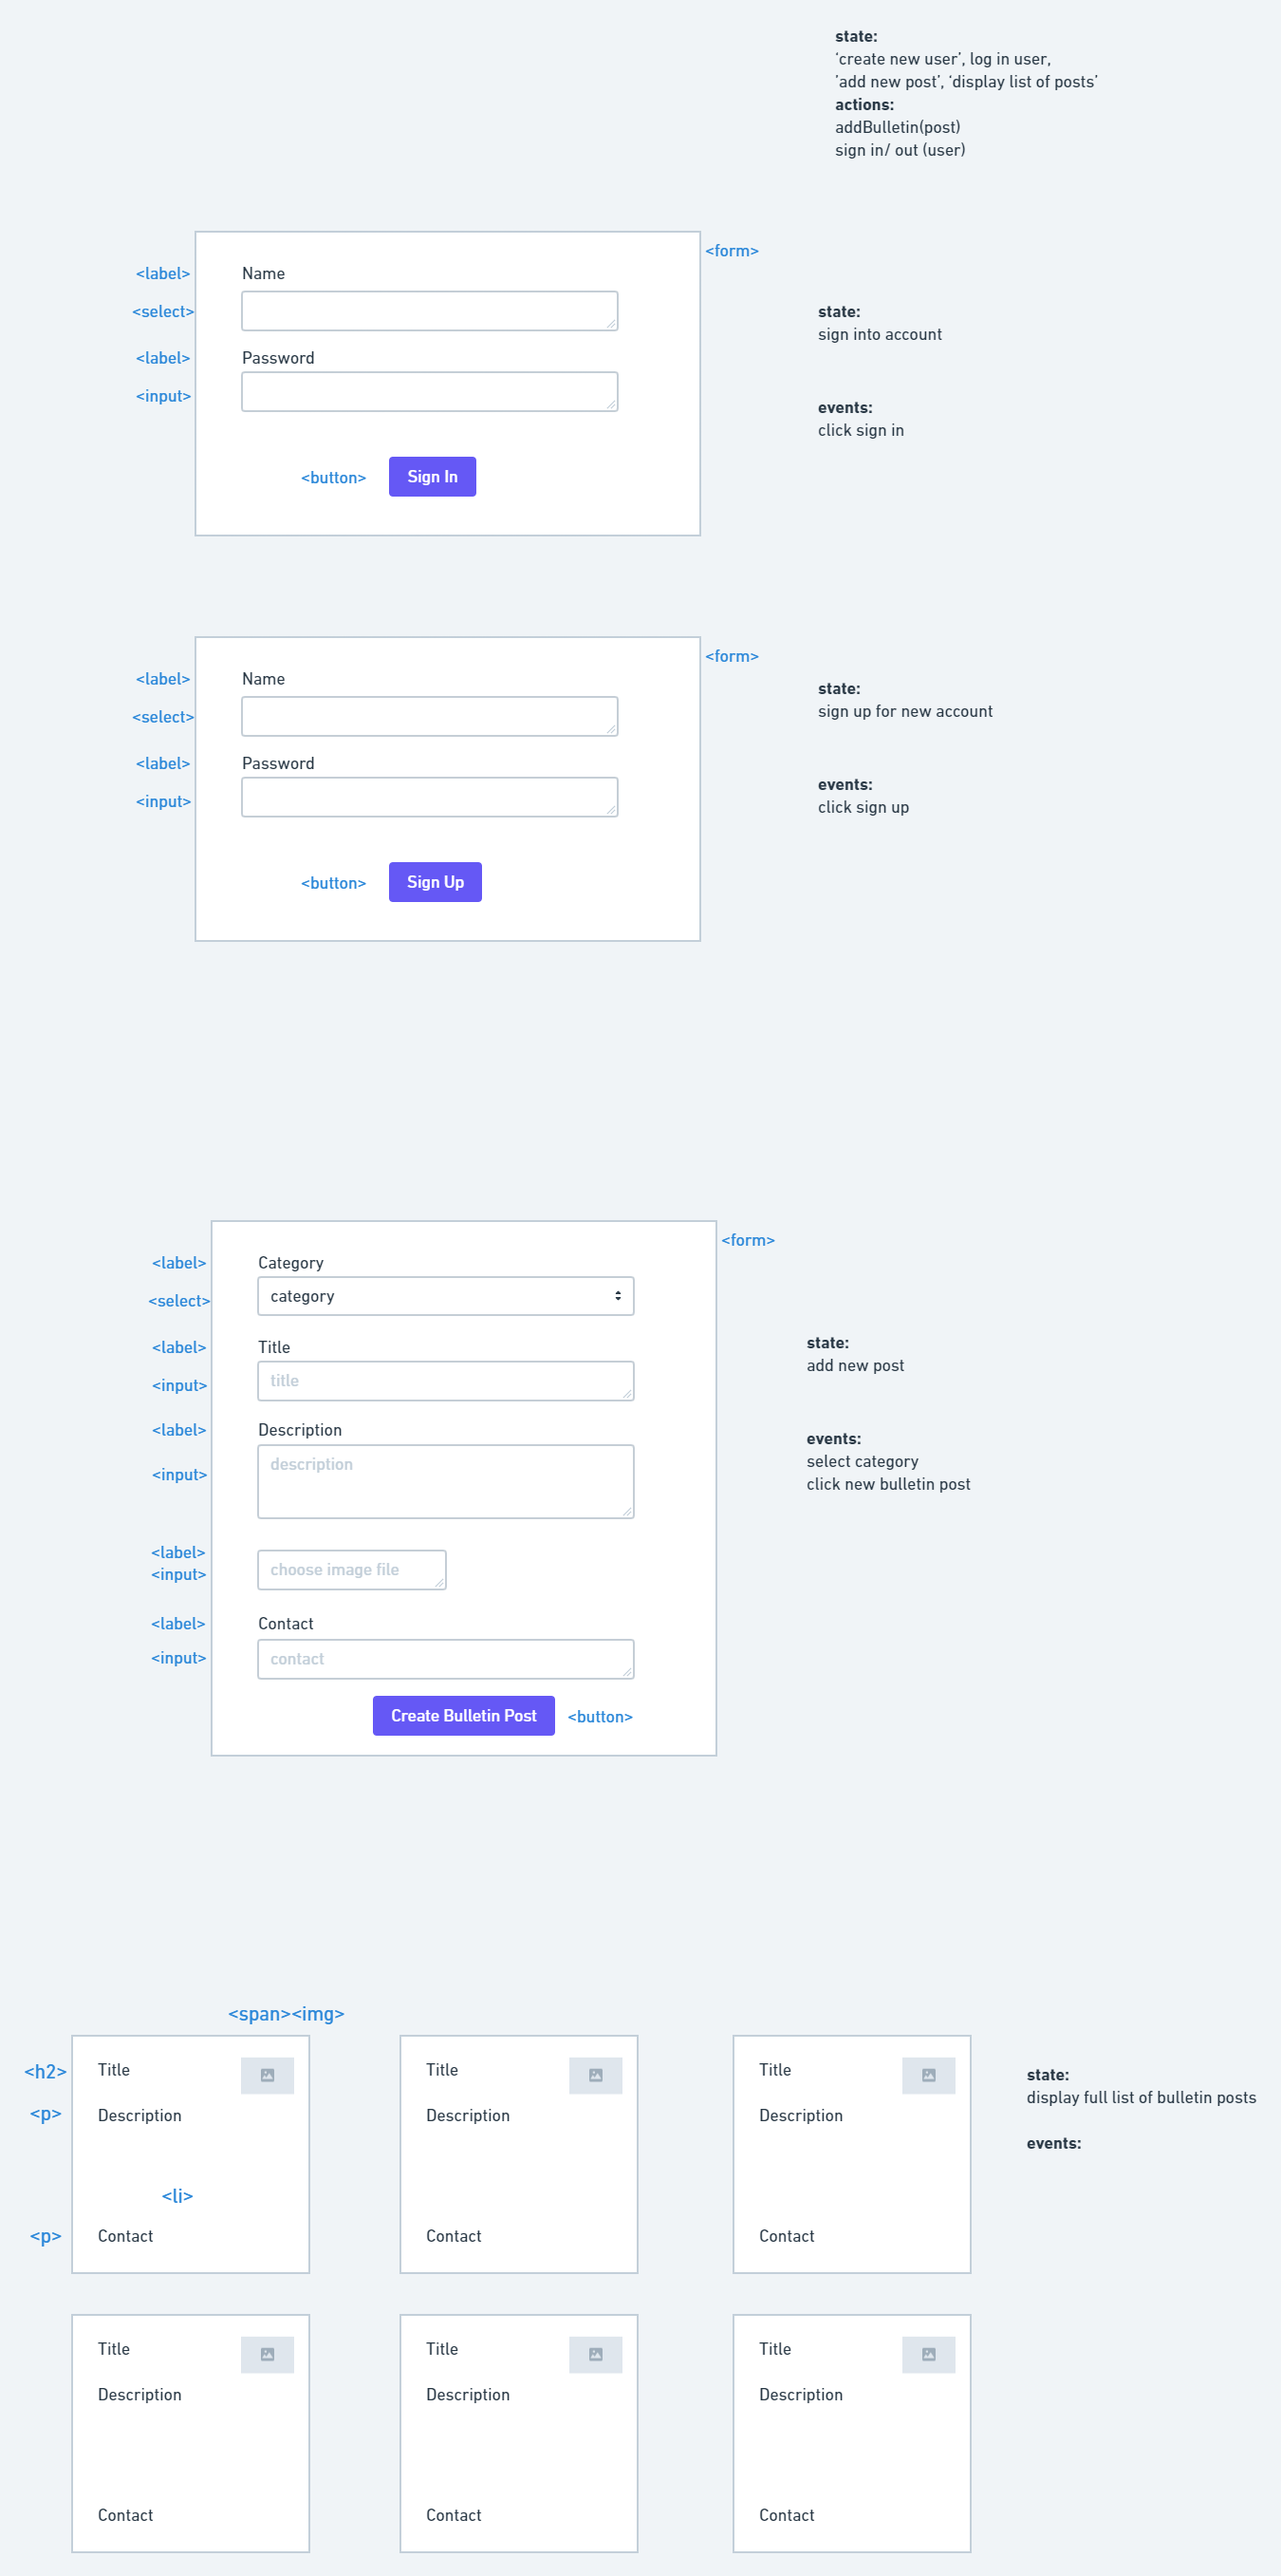
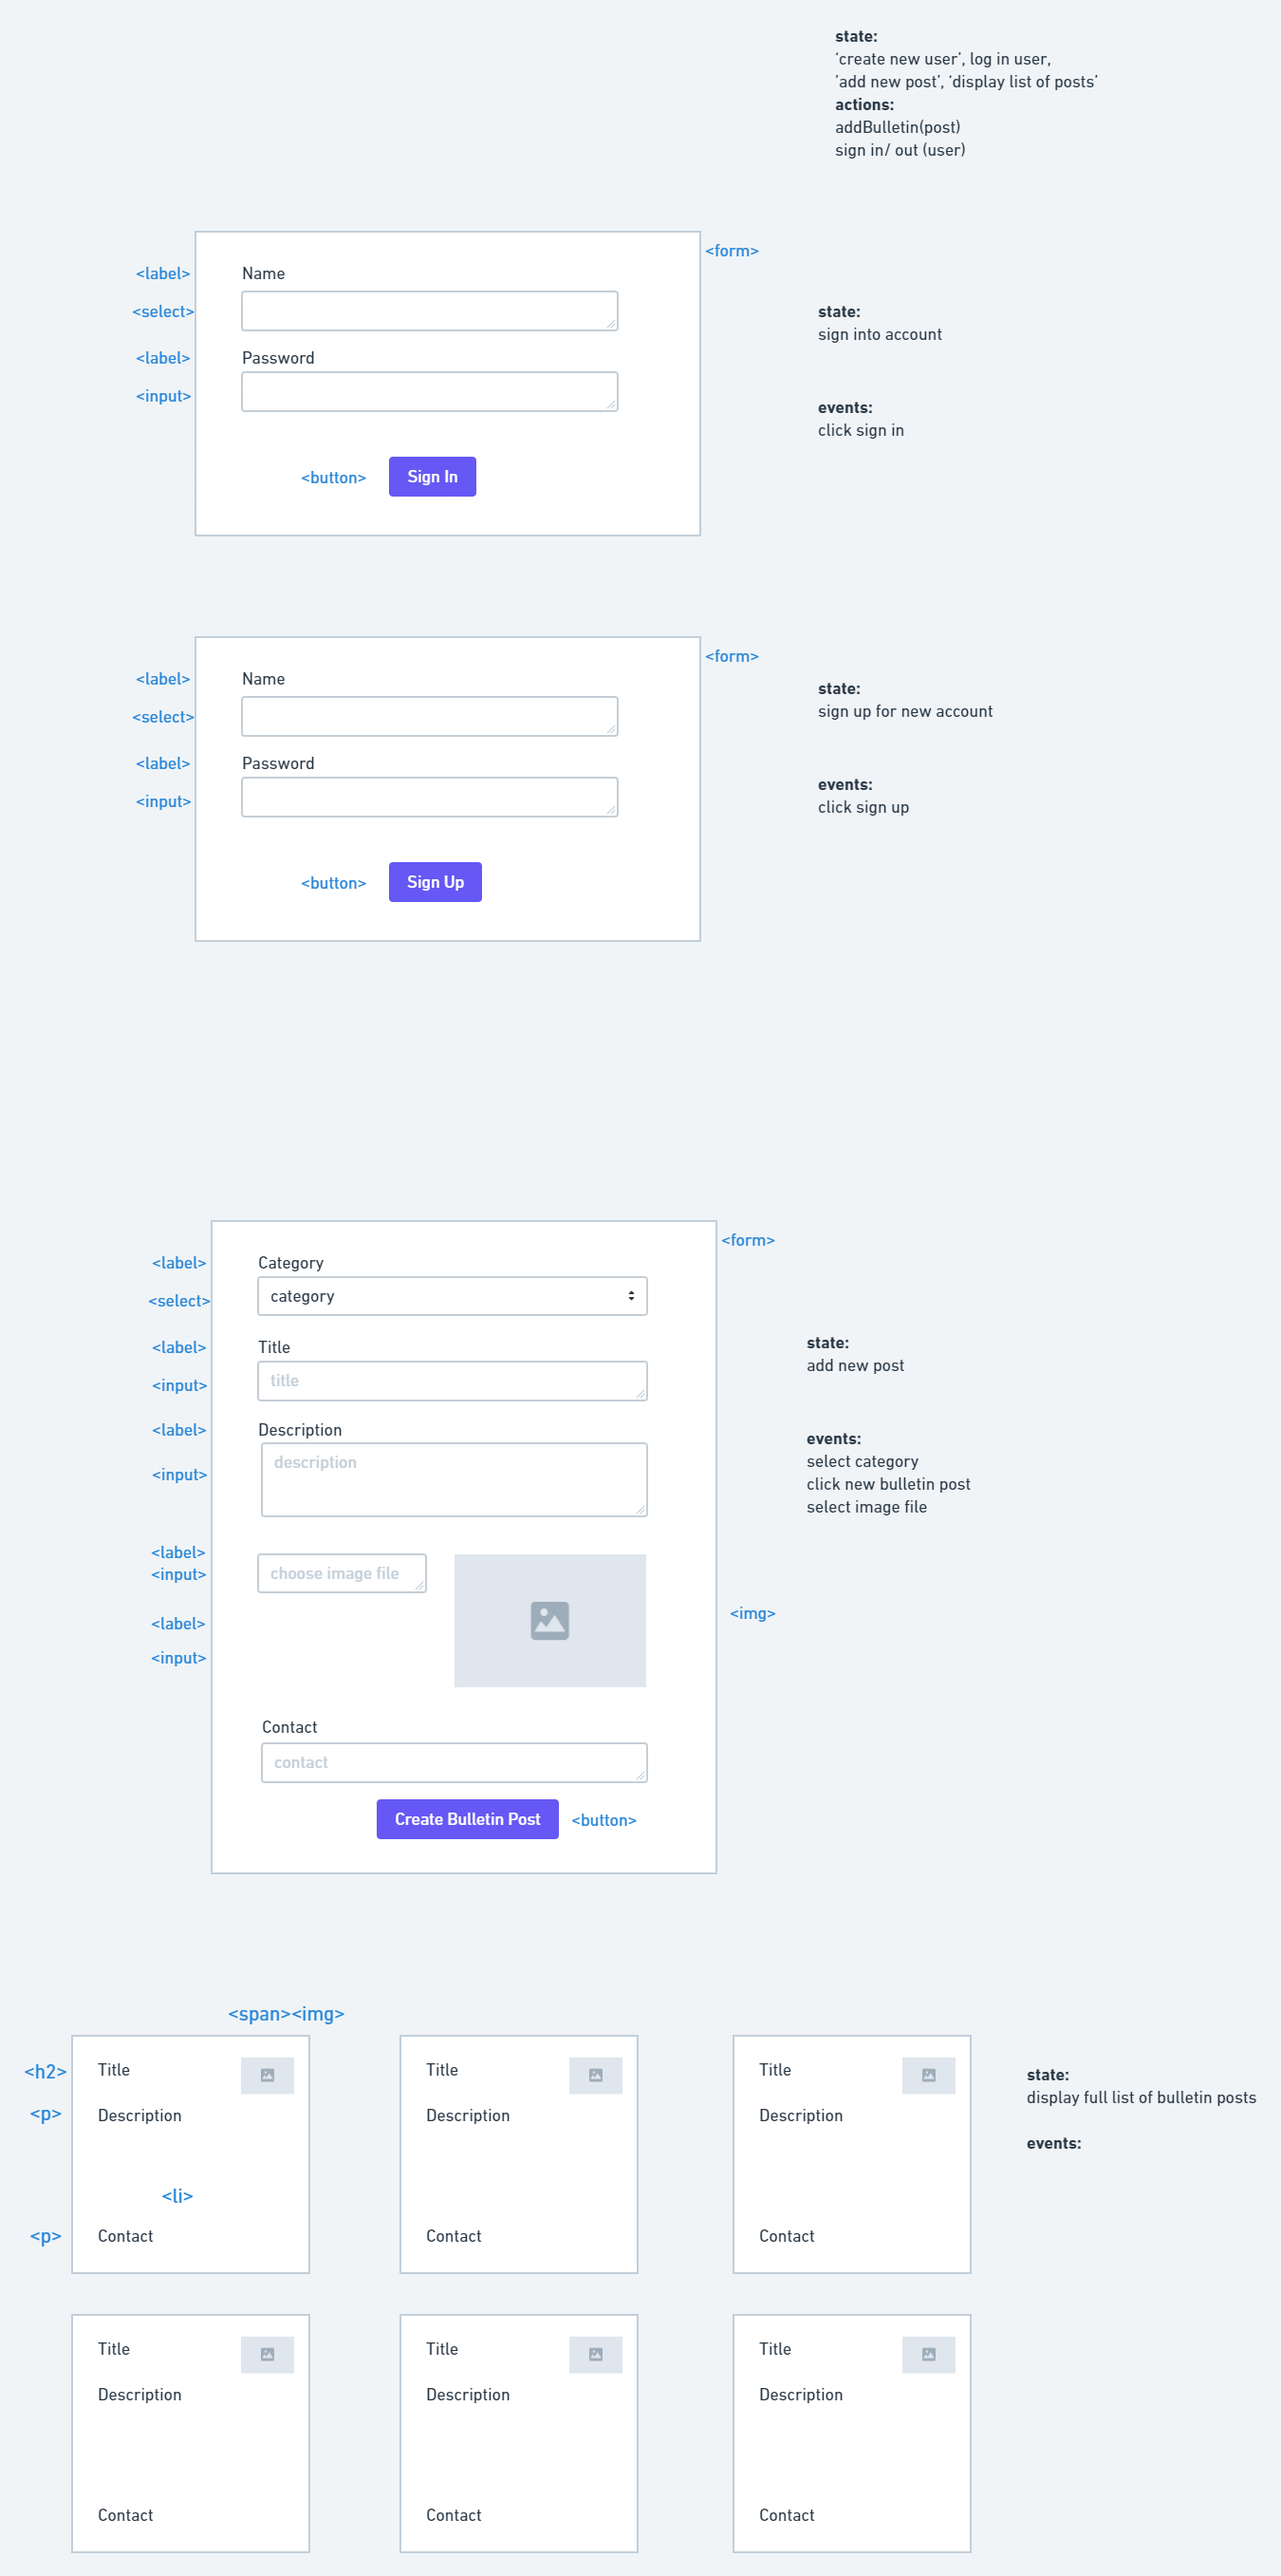
html/ css added, form constructed

Changed region(s): [[0.1867, 0.5573, 0.5289, 0.7121]]

diff --git a/auth/index.html b/auth/index.html
@@ -1,51 +1,48 @@
 <!DOCTYPE html>
 <html lang="en">
+    <head>
+        <meta charset="UTF-8" />
+        <meta name="viewport" content="width=device-width, initial-scale=1.0" />
+        <meta http-equiv="X-UA-Compatible" content="ie=edge" />
+        <link rel="icon" type="image/x-icon" href="/assets/alchemy-favicon.png" />
 
-<head>
-    <meta charset="UTF-8" />
-    <meta name="viewport" content="width=device-width, initial-scale=1.0" />
-    <meta http-equiv="X-UA-Compatible" content="ie=edge" />
-    <link rel="icon" type="image/x-icon" href="/assets/alchemy-favicon.png" />
+        <script defer src="https://cdn.jsdelivr.net/npm/@supabase/supabase-js"></script>
+        <script type="module" src="auth.js"></script>
 
-    <script defer src="https://cdn.jsdelivr.net/npm/@supabase/supabase-js"></script>
-    <script type="module" src="auth.js"></script>
+        <link rel="preconnect" href="https://fonts.googleapis.com" />
+        <link rel="preconnect" href="https://fonts.gstatic.com" crossorigin />
+        <link
+            rel="stylesheet"
+            href="https://fonts.googleapis.com/css2?family=Rubik:wght@300;400;600&family=Titillium+Web:wght@200;400;600&display=swap"
+        />
 
-    <link rel="preconnect" href="https://fonts.googleapis.com">
-    <link rel="preconnect" href="https://fonts.gstatic.com" crossorigin>
-    <link rel="stylesheet"
-        href="https://fonts.googleapis.com/css2?family=Rubik:wght@300;400;600&family=Titillium+Web:wght@200;400;600&display=swap">
+        <link rel="stylesheet" href="/styles/reset.css" />
+        <link rel="stylesheet" href="/styles/global.css" />
+        <link rel="stylesheet" href="/styles/form.css" />
+        <title>Auth</title>
+    </head>
 
-    <link rel="stylesheet" href="/styles/reset.css" />
-    <link rel="stylesheet" href="/styles/global.css" />
-    <link rel="stylesheet" href="/styles/form.css" />
-    <title>Auth</title>
-</head>
+    <body>
+        <header class="page-header">
+            <img class="logo" src="/assets/html_css_js.png" />
+            <p class="title">User Auth</p>
+        </header>
 
-<body>
-    <header class="page-header">
-        <img class="logo" src="/assets/html_css_js.png">
-        <p class="title">User Auth</p>
-    </header>
-
-    <main>
-        <form id="auth-form">
-            <h2></h2>
-            <label>
-                Email
-                <input type="email" name="email" required />
-            </label>
-            <label>
-                Password
-                <input type="password" name="password" required />
-            </label>
-            <button></button>
-            <p class="error"></p>
-            <a href=""></a>
-        </form>
-
-    </main>
-
-
-</body>
-
+        <main>
+            <form id="auth-form">
+                <h2></h2>
+                <label>
+                    Email
+                    <input type="email" name="email" required />
+                </label>
+                <label>
+                    Password
+                    <input type="password" name="password" required />
+                </label>
+                <button>Sign In</button>
+                <p class="error"></p>
+                <a href=""></a>
+            </form>
+        </main>
+    </body>
 </html>

diff --git a/post-editor/index.html b/post-editor/index.html
@@ -1,0 +1,80 @@
+<!DOCTYPE html>
+<html lang="en">
+    <head>
+        <meta charset="UTF-8" />
+        <meta http-equiv="X-UA-Compatible" content="IE=edge" />
+        <meta name="viewport" content="width=device-width, initial-scale=1.0" />
+        <title>Document</title>
+
+        <!-- js -->
+        <script defer src="https://cdn.jsdelivr.net/npm/@supabase/supabase-js"></script>
+        <script type="module" src="post-editor.js"></script>
+        <!-- css -->
+
+        <link rel="stylesheet" href="/styles/reset.css" />
+        <link rel="stylesheet" href="/styles/global.css" />
+        <link rel="stylesheet" href="/styles/form.css" />
+        <link rel="stylesheet" href="post-editor.css" />
+    </head>
+    <body>
+        <header class="page-header">
+            <img class="logo" src="/assets/pet-lover-logo.png" alt="logo" />
+            <p class="title">Pet Lover</p>
+            <nav>
+                <a href="../">Bulletin Board</a>
+                <a id="sign-out-link" href="/auth">Sign Out</a>
+            </nav>
+        </header>
+
+        <main>
+            <form id="pet-form">
+                <label>
+                    <div>Category</div>
+                    <select>
+                        <option value="null" value="Free">choose category</option>
+                        <option value="community">Community</option>
+                        <option value="services">Services</option>
+                        <option value="housing">Housing</option>
+                        <option value="for-sale">For Sale</option>
+                        <option value="jobs">Jobs</option>
+                        <option value="gigs">Gigs</option>
+                        <option value="pictures-of-cats">Pictures of cats</option>
+                    </select>
+                </label>
+                <label>
+                    <div>Title</div>
+                    <input name="name" required placeholder="Enter title" />
+                </label>
+                <label>
+                    <div>Description</div>
+                    <textarea
+                        name="description"
+                        required
+                        placeholder="What are you posting about?"
+                    ></textarea>
+                </label>
+
+                <label>
+                    <div>Photo</div>
+                    <input
+                        id="image-input"
+                        name="image"
+                        type="file"
+                        required
+                        placeholder="upload an image..."
+                    />
+                </label>
+                <img
+                    id="preview"
+                    class="preview"
+                    alt="avatar preview"
+                    src="../assets/pet-photo-placeholder.png"
+                />
+
+                <button id="add-button">Add Post</button>
+
+                <p id="error-display"></p>
+            </form>
+        </main>
+    </body>
+</html>

diff --git a/styles/global.css b/styles/global.css
@@ -15,7 +15,12 @@ body {
     height: 100vh;
     font-family: var(--primary-font);
     color: var(--text-color);
-    background: var(--background);
+    background: black;
+    background-image: linear-gradient(
+        rgba(0, 0, 255, 0.795),
+        rgba(128, 0, 128, 0.804),
+        rgba(0, 128, 0, 0.804)
+    );
     display: grid;
     grid-template-rows: auto 1fr;
 }

diff --git a/index.html b/index.html
@@ -33,7 +33,7 @@
             <!-- <img class="logo" src="/assets/html_css_js.png" alt="logo" /> -->
             <p class="title">Bulletin Board App</p>
             <nav>
-                <a href="/">Home</a>
+                <a href="/post-editor/">Create Post</a>
                 <a id="sign-out-link" href="auth">Sign Out</a>
             </nav>
         </header>

diff --git a/styles/form.css b/styles/form.css
@@ -3,7 +3,7 @@ form:not(.inline) {
     margin: auto;
     max-width: 500px;
     border: 1px solid;
-    background: var(--offset-color);
+    background-color: rgba(9, 255, 0, 0.329);
     padding: 20px;
 
     display: grid;

diff --git a/post-editor/post-editor.css b/post-editor/post-editor.css
@@ -1,0 +1,11 @@
+.preview {
+    height: 128px;
+    width: 128px;
+    object-fit: cover;
+    border: 1px solid var(--placeholder-color);
+    background: white;
+}
+
+label {
+    color: white;
+}
